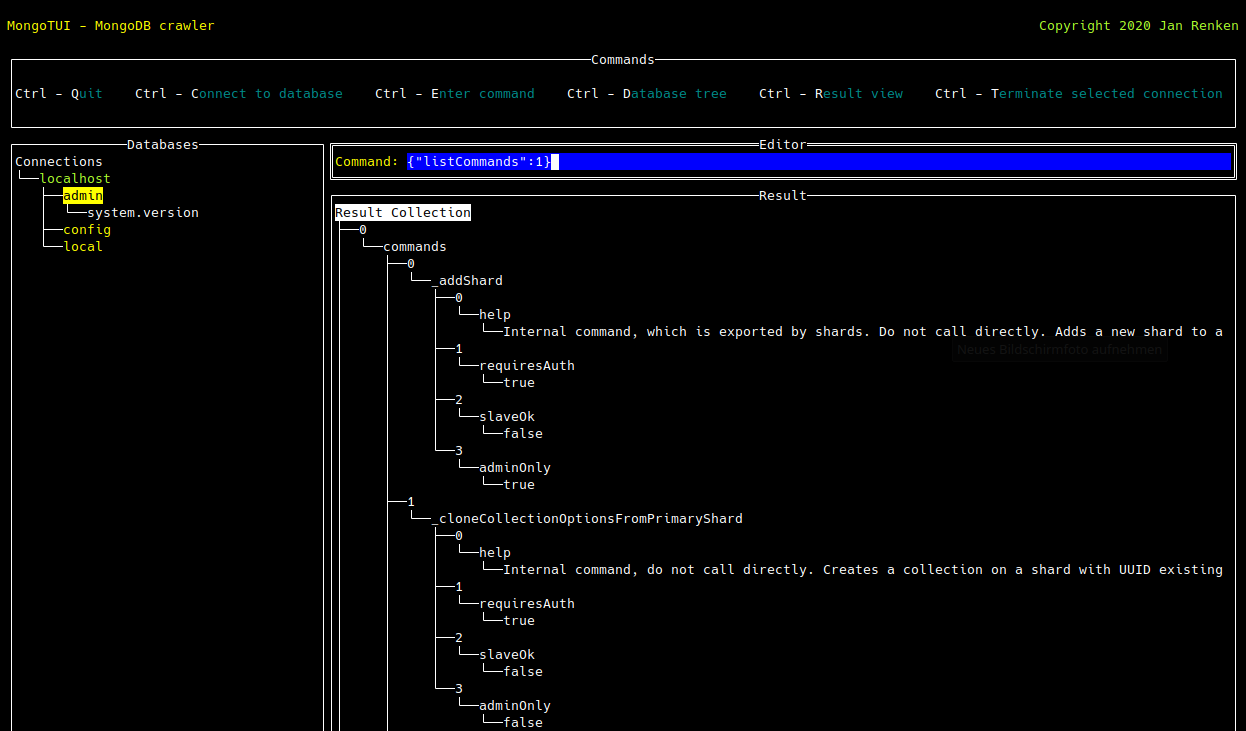
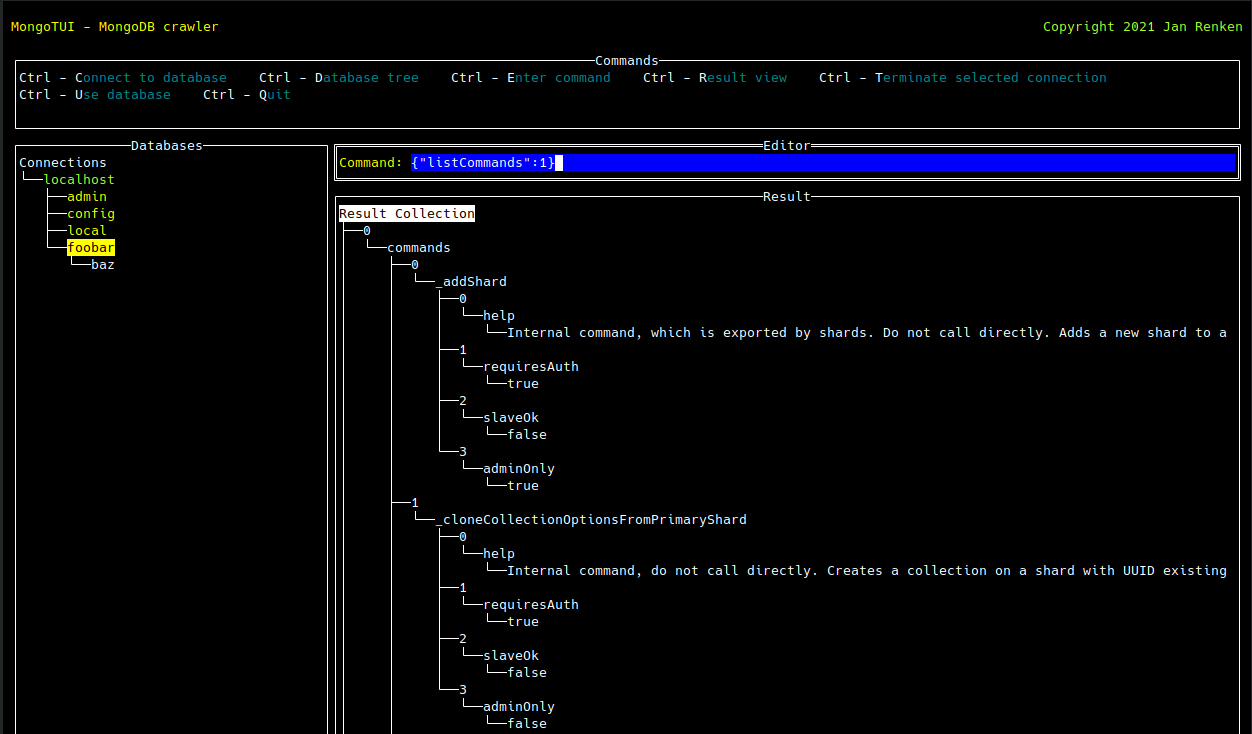
Update readme

diff --git a/README.md b/README.md
@@ -32,13 +32,17 @@ You can run mongotui with the -c argument specifying a MongoDB connection URI to
 mongotui -c mongodb://localhost
 ```
 
-Press `<Ctrl>`-`<c>` to connect to a MongoDB instance, you can enter the connection parameters individually or the connection URI as well. Notice that the connection URI always wins, if the individual fields and the connection URI are filled.
+Press `<Ctrl>`-`<c>` to connect to a MongoDB instance, you can enter the connection parameters individually or the connection URI as well. Note that the connection URI always wins, if the individual fields and the connection URI are filled.
+
+If you just send an empty form, the mongoTUI tries to connect to localhost by default.
 
 The open database connections, accessed by `<Ctrl>`-`<d>`, their databases and collections are displayed as a tree view in the left application panel. You can navigate through the nodes with the arrow keys or left-click on them.
 
 The command editor is accessible by `<Ctrl>`-`<e>`. The commands are fired on the database which are selected in the tree view by pressing `<Enter>` or `<Return>` in the command editor.
 
 The command result is shown in the result panel as a tree view. You can access it with `<Ctrl>`-`<r>` and navigate through the nodes with the arrow keys.
+
+`<Ctrl>`-`<u>` opens the use database dialog which prompts for the database name. If the database does not exist, it is created as knwon from the MongoDB `use <db>` command.
 
 `<Ctrl>`-`<t>` disconnects (terminates) the selected connection.
 
